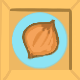
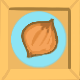
updated selection

diff --git a/PlayerController.java b/PlayerController.java
@@ -1,5 +1,5 @@
 import greenfoot.*;  // (World, Actor, GreenfootImage, Greenfoot and MouseInfo)
-
+import java.util.List;
 /**
  * Write a description of class Player here.
  * 
@@ -59,5 +59,54 @@ public class PlayerController extends SuperSmoothMover
         setLocation(oldX, oldY);
     
         return counter != null;
+    }
+    
+    //check the number of selected counters
+    public int getNumNearbyCounters() {
+        boolean up    = getOneObjectAtOffset(0, -55, Counter.class) != null;
+        boolean down  = getOneObjectAtOffset(0,  55, Counter.class) != null;
+        boolean left  = getOneObjectAtOffset(-55, 0, Counter.class) != null;
+        boolean right = getOneObjectAtOffset(55, 0, Counter.class) != null;
+        
+        int count = 0;
+        if (up)    count++;
+        if (down)  count++;
+        if (left)  count++;
+        if (right) count++;
+        
+        return count;
+    }
+    
+    //if player is next to only one counter, select that counter
+    //if player is next to two or more counters(e.g. in a corner),
+    //select the one it faces
+    public Counter getSelectedCounter() {
+        int numNearbyCounters = getNumNearbyCounters();
+        if (numNearbyCounters == 0) return null;
+    
+        MyWorld w = (MyWorld)getWorld();
+        String dir = w.playerImage.getFacingDirection();
+    
+        // 1. If only one, return whatever is there
+        if (numNearbyCounters == 1) {
+            if (getOneObjectAtOffset(0, -55, Counter.class) != null) {
+                return (Counter)getOneObjectAtOffset(0, -55, Counter.class);
+            } else if (getOneObjectAtOffset(0, 55, Counter.class) != null) {
+                return (Counter)getOneObjectAtOffset(0, 55, Counter.class);
+            } else if (getOneObjectAtOffset(-55, 0, Counter.class) != null) {
+                return (Counter)getOneObjectAtOffset(-55, 0, Counter.class);
+            } else if (getOneObjectAtOffset(55, 0, Counter.class) != null) {
+                return (Counter)getOneObjectAtOffset(55, 0, Counter.class);
+            }
+        }
+    
+        // 2. If multiple → pick the one in front
+        Counter best = null;
+        if (dir.equals("front") ) best= (Counter)getOneObjectAtOffset (0, 55, Counter.class);
+        else if (dir.equals("back") ) best= (Counter)getOneObjectAtOffset (0, -55, Counter.class);
+        else if (dir.equals("left") ) best= (Counter)getOneObjectAtOffset (-55, 0, Counter.class);
+        else if (dir.equals("right") ) best= (Counter)getOneObjectAtOffset (55, 0, Counter.class);
+    
+        return best;
     }
 }

diff --git a/Counter.java b/Counter.java
@@ -43,17 +43,11 @@ public class Counter extends Actor
     }
      */
     
-    public void checkIfSelected (GreenfootImage selectedImageVersion, GreenfootImage normalImage){
-        if (getOneObjectAtOffset (0, -50, PlayerController.class) != null) {
-                setImage (selectedImageVersion);
-        } else if (getOneObjectAtOffset (-50, 0, PlayerController.class) != null) {
-                setImage (selectedImageVersion);
-        } else if (getOneObjectAtOffset (50, 0, PlayerController.class) != null) {
-                setImage (selectedImageVersion);
-        } else if (getOneObjectAtOffset (0, 55, PlayerController.class) != null) {
-                setImage (selectedImageVersion);
-        } else {
-            setImage (normalImage);
-        }
+    public void checkIfSelected (GreenfootImage selectedImage, GreenfootImage normalImage){
+        MyWorld world = (MyWorld)getWorld();
+        Counter selected = world.player.getSelectedCounter();
+    
+        if (this == selected) setImage(selectedImage);
+        else setImage(normalImage);
     }
 }

diff --git a/DeliveryCounter.java b/DeliveryCounter.java
@@ -9,6 +9,8 @@ import greenfoot.*;  // (World, Actor, GreenfootImage, Greenfoot and MouseInfo)
 public class DeliveryCounter extends Counter
 {
     private GreenfootImage deliveryCounter = new GreenfootImage ("images/deliveryCounter.PNG");
+    private GreenfootImage selectedDeliveryCounter = new GreenfootImage ("images/selectedDeliveryCounter.PNG");
+  
     /**
      * Act - do whatever the DeliveryCounter wants to do. This method is called whenever
      * the 'Act' or 'Run' button gets pressed in the environment.

diff --git a/NormalCounter.java b/NormalCounter.java
@@ -25,5 +25,6 @@ public class NormalCounter extends Counter
     {
         // Add your action code here.
         checkIfSelected (selectedNormalCounter, normalCounter);
+        
     }
 }
